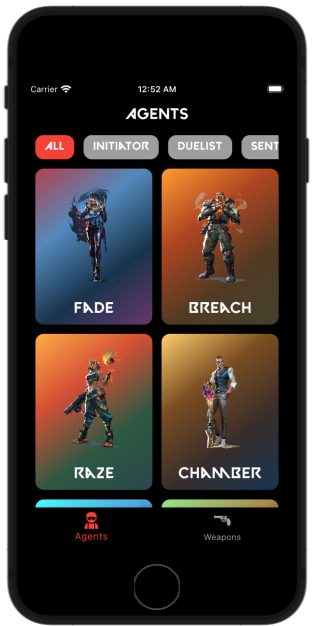
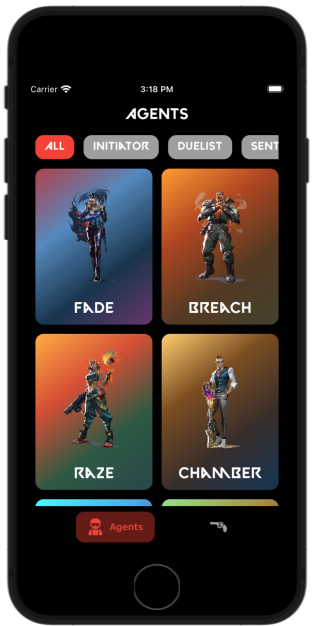
Bottom navbar updated

diff --git a/lib/feature/_navbar/view/navbar_view.dart b/lib/feature/_navbar/view/navbar_view.dart
@@ -1,6 +1,8 @@
 import 'package:auto_route/auto_route.dart';
 import 'package:flutter/material.dart';
+import 'package:salomon_bottom_bar/salomon_bottom_bar.dart';
 
+import '../../../core/extensions/context_extension.dart';
 import '../../../core/router/app_router.gr.dart';
 import '../../../core/widgets/icons/custom_icons.dart';
 
@@ -15,18 +17,24 @@ class NavbarView extends StatelessWidget {
         WeaponsRoute(),
       ],
       bottomNavigationBuilder: (_, tabsRouter) {
-        return BottomNavigationBar(
+        return SalomonBottomBar(
+          itemShape: RoundedRectangleBorder(
+            borderRadius: context.defaultBorderRadius,
+          ),
+          selectedItemColor: Theme.of(context).bottomNavigationBarTheme.selectedItemColor,
+          unselectedItemColor: Theme.of(context).bottomNavigationBarTheme.unselectedItemColor,
+          selectedColorOpacity: 0.4,
           currentIndex: tabsRouter.activeIndex,
           onTap: tabsRouter.setActiveIndex,
-          items: const [
-            BottomNavigationBarItem(
-              icon: Icon(CustomIcons.agent),
-              label: "Agents",
+          items: [
+            SalomonBottomBarItem(
+              title: const Text("Agents"),
+              icon: const Icon(CustomIcons.agent),
             ),
-            BottomNavigationBarItem(
-              icon: Icon(CustomIcons.weapon),
-              label: "Weapons",
-            )
+            SalomonBottomBarItem(
+              title: const Text("Weapons"),
+              icon: const Icon(CustomIcons.weapon),
+            ),
           ],
         );
       },

diff --git a/lib/core/theme/theme_manager.dart b/lib/core/theme/theme_manager.dart
@@ -6,20 +6,20 @@ class ThemeManager {
 
   ThemeManager._init();
 
-  ThemeData get darkTheme => ThemeData.dark().copyWith(
-        typography: Typography.material2021(),
-        scaffoldBackgroundColor: Colors.black,
-        focusColor: Colors.red,
-        disabledColor: Colors.grey,
-        appBarTheme: const AppBarTheme(
-          elevation: 0,
-          centerTitle: true,
-          backgroundColor: Colors.transparent,
-        ),
-        bottomNavigationBarTheme: const BottomNavigationBarThemeData(
-          backgroundColor: Colors.black,
-          selectedItemColor: Colors.red,
-          unselectedItemColor: Colors.grey,
-        ),
-      );
+  final ThemeData darkTheme = ThemeData.dark().copyWith(
+    typography: Typography.material2021(),
+    scaffoldBackgroundColor: Colors.black,
+    focusColor: Colors.red,
+    disabledColor: Colors.grey,
+    appBarTheme: const AppBarTheme(
+      elevation: 0,
+      centerTitle: true,
+      backgroundColor: Colors.transparent,
+    ),
+    bottomNavigationBarTheme: const BottomNavigationBarThemeData(
+      backgroundColor: Colors.black,
+      selectedItemColor: Colors.red,
+      unselectedItemColor: Colors.grey,
+    ),
+  );
 }
